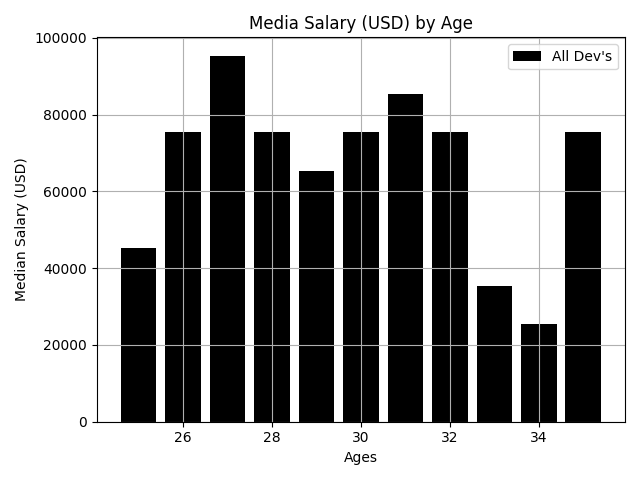
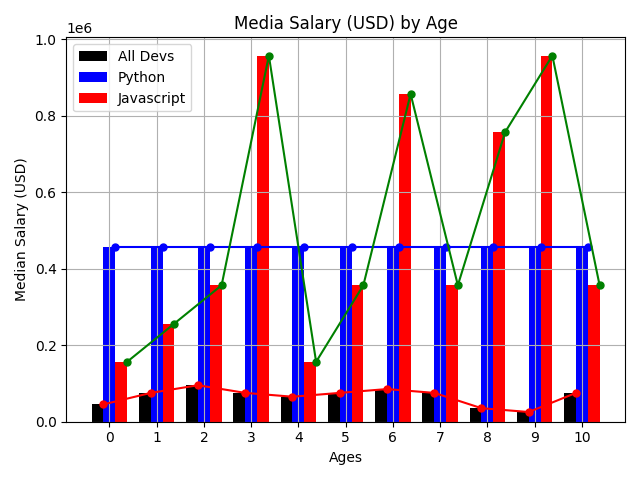
how to a

diff --git a/partner.py b/partner.py
@@ -1,18 +1,36 @@
 import matplotlib.pyplot as plt
+import numpy as np
 
 dev_x = [25, 26, 27, 28, 29, 30, 31, 32, 33, 34, 35]
+x_indexes = np.arange(len(dev_x))
+width = 0.25
 dev_y = [45331, 75332, 95333, 75334, 65335, 75336, 85337, 75338, 35339, 25340, 75341]
+py_dev_y = [456541, 456542, 456543, 456544, 456545, 456546, 456547, 456548, 456549, 456550, 456551]
+js_dev_y = [156541, 256542, 356543, 956544, 156545, 356546, 856547, 356548, 756549, 956550, 356551]
 
-# Plot the bar chart
-plt.bar(dev_x, dev_y, color='k', linestyle='--', label="All Devs")
+# Plot the bar chart for "All Devs"
+plt.bar(x_indexes - width, dev_y, color='k', linestyle='--', label="All Devs", width=width)
 
-# Add markers on top of the bars
-# plt.plot(dev_x, dev_y, marker='o', markersize=5, color='red')
+# Plot markers on top of the bars for "All Devs"
+plt.plot(x_indexes - width + width / 2, dev_y, marker='o', markersize=5, color='red')
+
+# Plot the bar chart for "Python"
+plt.bar(x_indexes, py_dev_y, color='b', label="Python", width=width)
+
+# Plot markers on top of the bars for "Python"
+plt.plot(x_indexes + width / 2, py_dev_y, marker='o', markersize=5, color='blue')
+
+# Plot the bar chart for "Javascript"
+plt.bar(x_indexes + width, js_dev_y, color='r', label="Javascript", width=width)
+
+# Plot markers on top of the bars for "Javascript"
+plt.plot(x_indexes + width + width / 2, js_dev_y, marker='o', markersize=5, color='green')
 
 plt.xlabel("Ages")
 plt.ylabel("Median Salary (USD)")
 plt.title('Media Salary (USD) by Age')
-plt.legend(["All Dev's", "Markers on Bars"])
+plt.legend()
+plt.xticks(ticks=x_indexes,labels=x_indexes)
 plt.grid(True)
 plt.tight_layout()
 plt.savefig('diagram.png')
